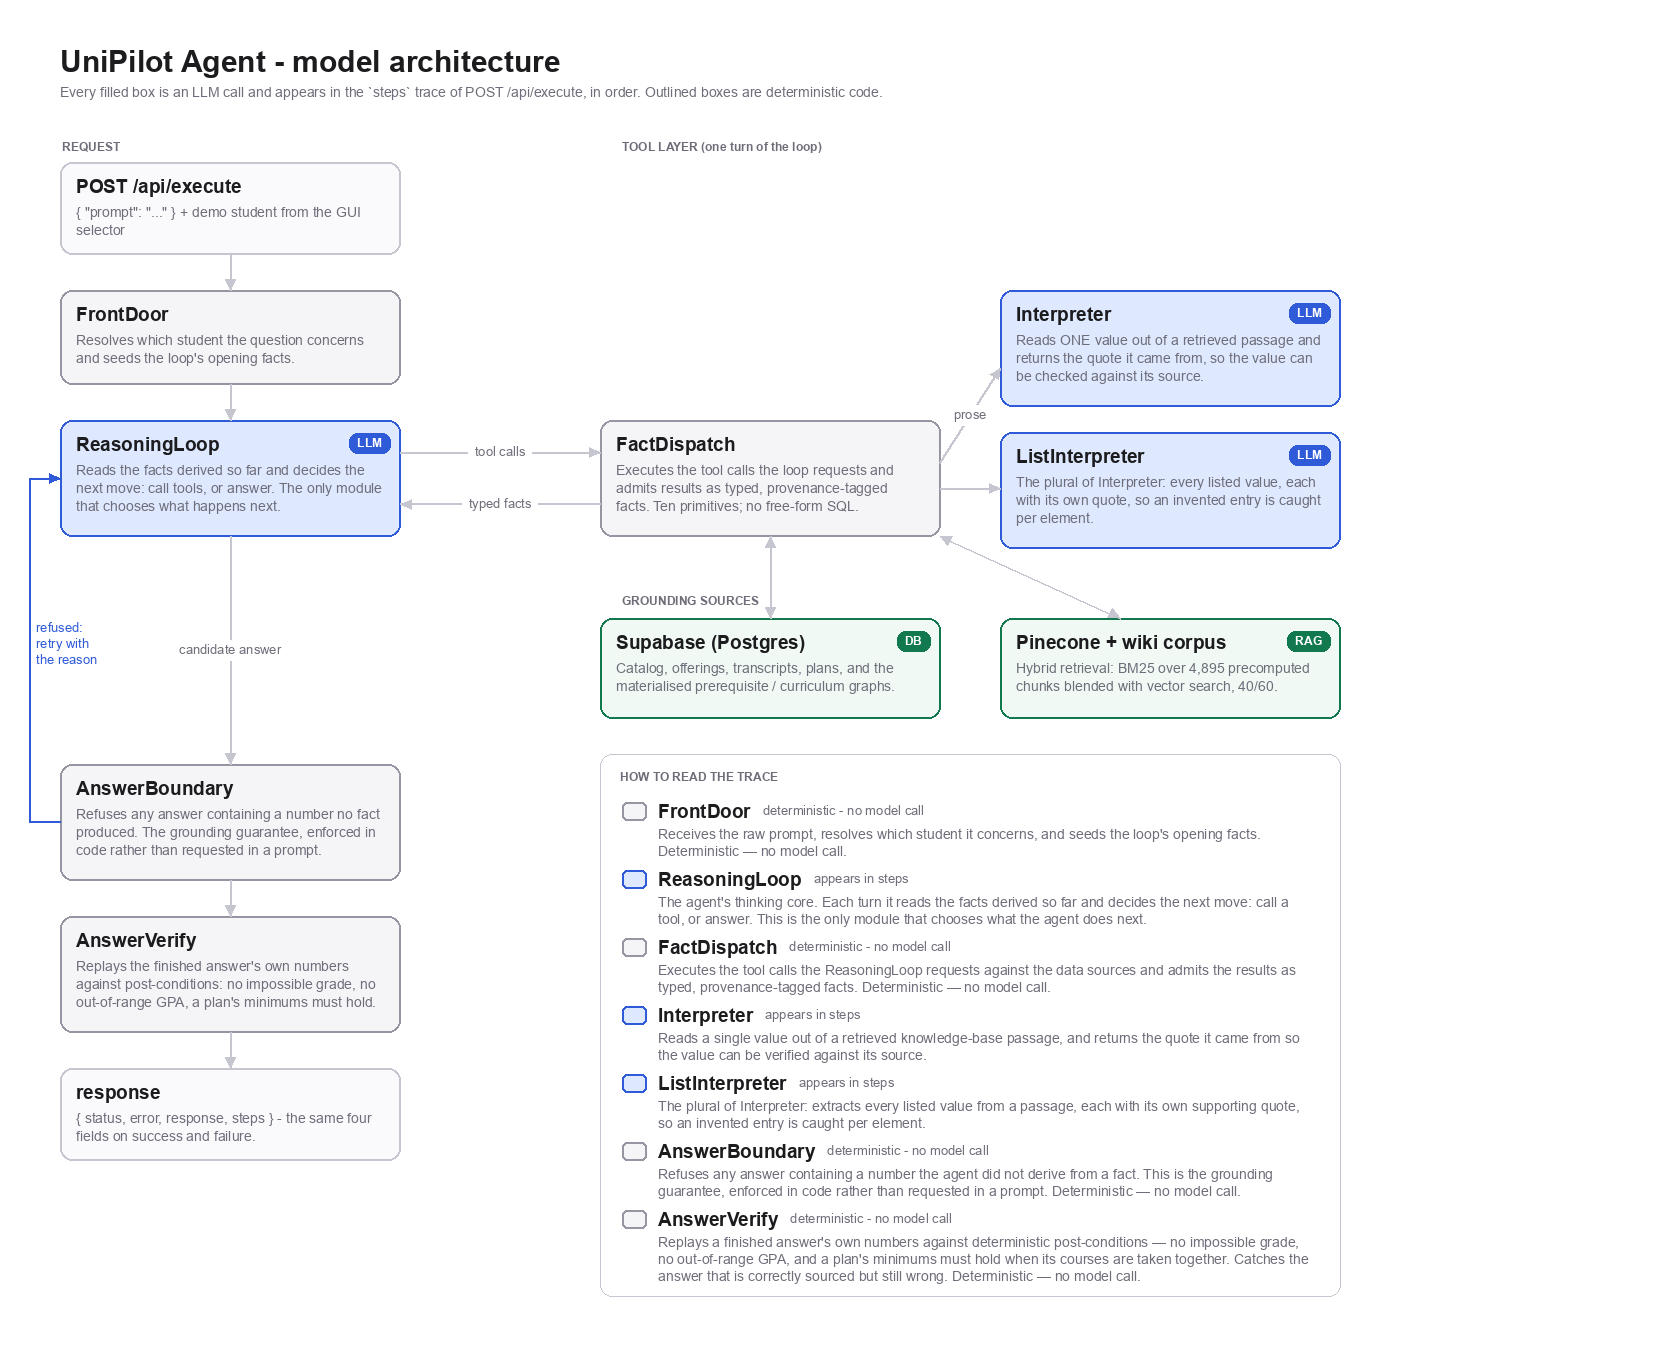
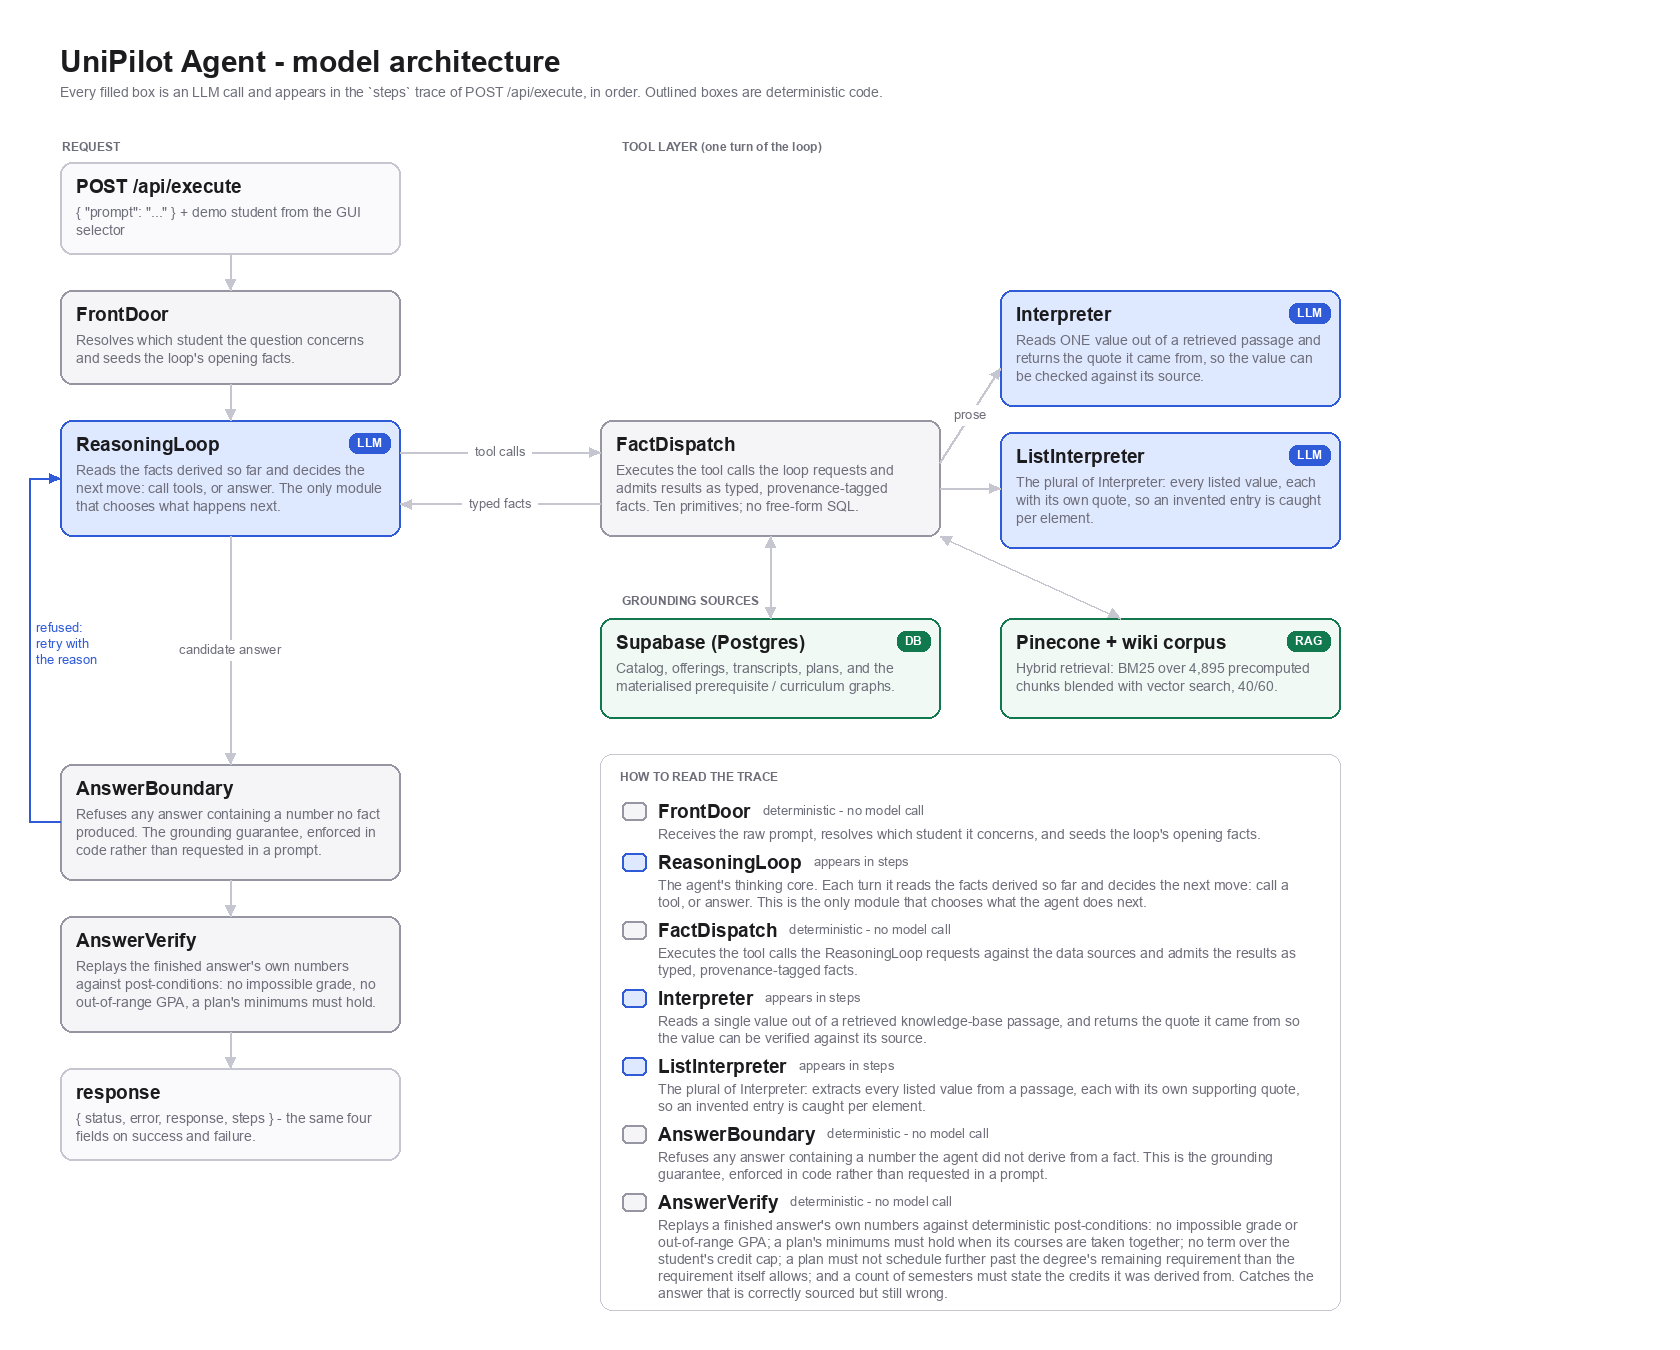
fix: the diagram's legend ran off its own panel
`data/architecture.png` is the PNG the submission serves at
`GET /api/model_architecture`, and it was a week stale: it still carried the old
three-item `AnswerVerify` description while `/api/agent_info` served the current
six from `MODULES`. The spec requires the diagram, the steps log and every
published description to agree, and these two had silently diverged.

Regenerating exposed the reason nobody had: the legend panel's border was a
hardcoded y=1296, so the longer description rendered its last two lines straight
through the border and out of the box. Fitting the panel to its contents is a
two-pass layout now -- a diagram generated from `MODULES` precisely so it cannot
disagree with the trace should not need hand-editing when that text grows.

The strip that removes the role's closing "Deterministic — no model call." --
redundant beside the tag already printed next to the name -- was written with a
HYPHEN while `modules.py` uses an em-dash, so it had never matched. Six wasted
lines across four boxes, and most of the overflow.

Fitting the panel moved the failure rather than removing it, so the canvas is
checked too: a legend taller than the image now fails loudly, because the last
overflow was invisible except by looking at the picture.

Changed region(s): [[0.3714, 0.6222, 0.7738, 0.9644]]

diff --git a/scripts/render_architecture.py b/scripts/render_architecture.py
@@ -268,18 +268,47 @@ def render() -> Path:
     draw.text((36, 652), "the reason", font=SMALL_F, fill=LLM_EDGE)
 
     # --- legend --------------------------------------------------------------
-    draw.rounded_rectangle((600, 754, 1340, 1296), radius=12, outline=LINE, width=1)
-    draw.text((620, 770), "HOW TO READ THE TRACE", font=TAG_F, fill=MUTED)
-    y = 800
+    # Laid out in two passes so the panel FITS ITS CONTENTS. The border used to
+    # be a hardcoded y=1296, which is fine until a module description grows: the
+    # `AnswerVerify` role gained three post-conditions and its last two lines
+    # rendered straight through the border and off the panel. A diagram
+    # generated from `MODULES` so it can never disagree with the trace should
+    # not need hand-editing when the text it reads gets longer.
+    entries = []
     for module in MODULES:
+        marker = "appears in steps" if module.calls_llm else "deterministic - no model call"
+        # The role's own closing sentence says what the tag beside the name
+        # already says. The strip was written with a HYPHEN while `modules.py`
+        # uses an em-dash, so it never matched and every deterministic module
+        # printed the redundant line -- six wasted lines across four boxes, which
+        # is most of the overflow.
+        body = module.role
+        for tail in (" Deterministic — no model call.", " Deterministic - no model call."):
+            body = body.replace(tail, "")
+        entries.append((module, marker, wrap(draw, body, BODY_F, 660)))
+
+    top = 754
+    height = 46 + sum(26 + 17 * len(lines) + 8 for _module, _marker, lines in entries)
+    if top + height > HEIGHT - 20:
+        # Fitting the panel to its text moved the failure rather than removing
+        # it: the border no longer cuts through a description, but the CANVAS
+        # still can. Loud, because the last one was silent -- the overflow only
+        # showed up by looking at the picture.
+        raise SystemExit(
+            f"the legend needs {top + height}px but the canvas is {HEIGHT}px. "
+            f"Raise HEIGHT to at least {top + height + 20}, or shorten a module role."
+        )
+    draw.rounded_rectangle((600, top, 1340, top + height), radius=12, outline=LINE, width=1)
+    draw.text((620, top + 16), "HOW TO READ THE TRACE", font=TAG_F, fill=MUTED)
+    y = top + 46
+    for module, marker, lines in entries:
         fill, edge, _ = style(module.name)
         draw.rounded_rectangle((622, y + 2, 646, y + 20), radius=5, fill=fill, outline=edge, width=2)
         draw.text((658, y), module.name, font=NAME_F, fill=INK)
-        marker = "appears in steps" if module.calls_llm else "deterministic - no model call"
         draw.text((658 + draw.textlength(module.name, font=NAME_F) + 12, y + 3), marker,
                   font=SMALL_F, fill=MUTED)
         y += 26
-        for line in wrap(draw, module.role.replace(" Deterministic - no model call.", ""), BODY_F, 660):
+        for line in lines:
             draw.text((658, y), line, font=BODY_F, fill=MUTED)
             y += 17
         y += 8
